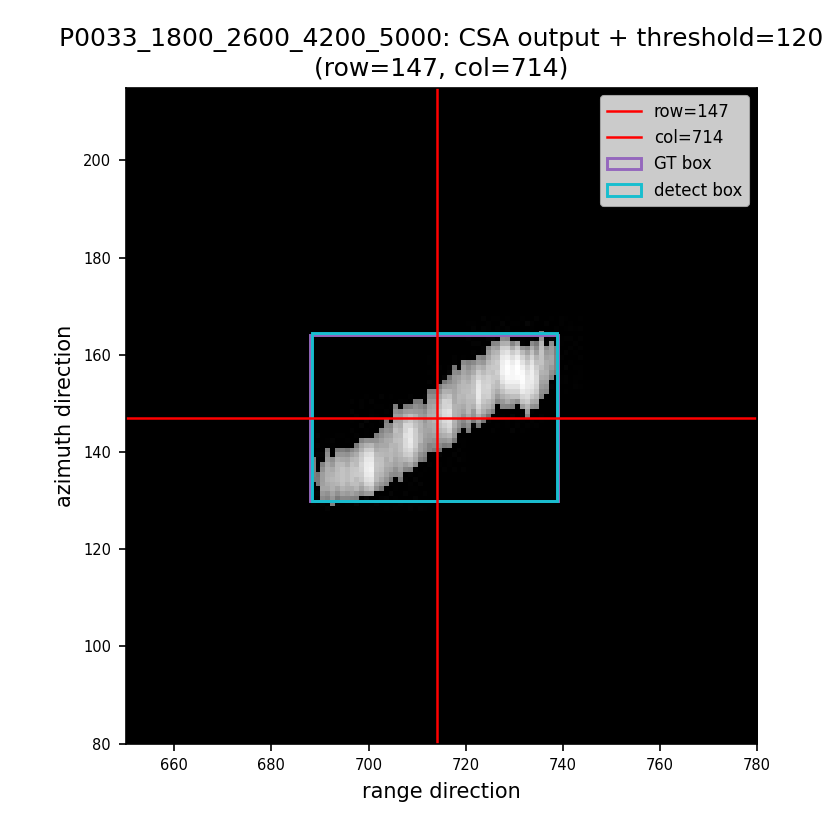
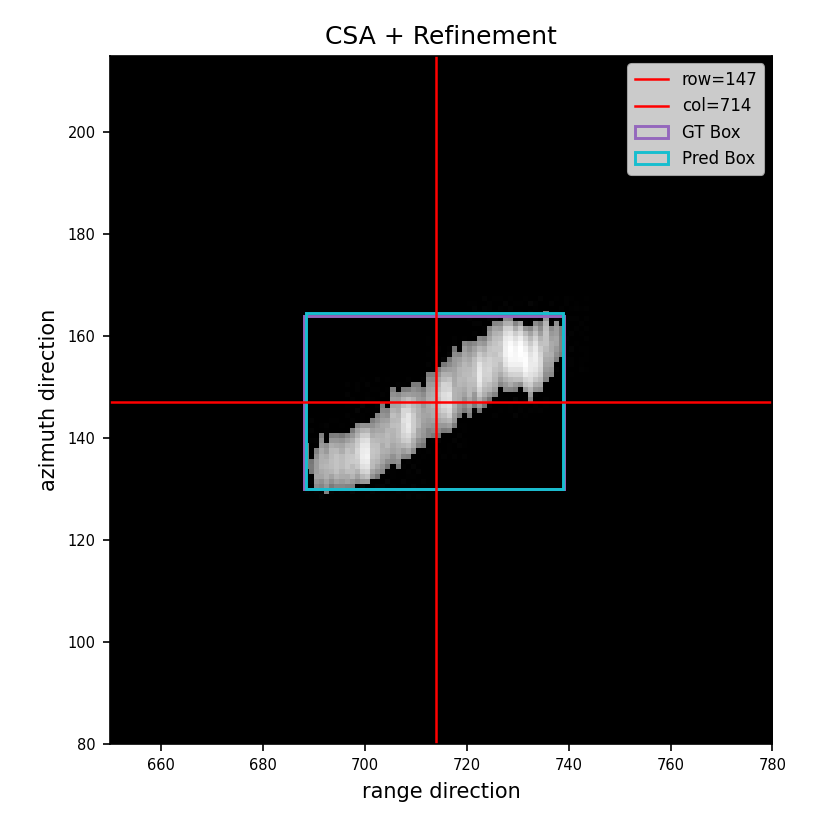
Fix label and legend

diff --git a/end_to_end_pipeline/crosssection_plots/plot_crosssection_scene.py b/end_to_end_pipeline/crosssection_plots/plot_crosssection_scene.py
@@ -93,15 +93,31 @@ def edges_crossing(boxes, fixed_row=None, fixed_col=None):
     return edges
 
 
+def normalize_to_peak(arr, target):
+    """Scale a 1D profile so its own max within the plotted window equals
+    `target` -- ONLY for visually comparing relative shape across curves
+    whose absolute 0-255 scales are not calibrated to each other
+    (union_masked is a raw pixel value, CSA output is independently
+    re-normalized per-image to its own dB peak -- see conversation notes).
+    Not meaningful as an absolute physical quantity, observation purposes
+    only. union_masked itself is intentionally left un-normalized (its raw
+    pixel value already IS a meaningful physical quantity) -- CSA output
+    and CSA+threshold get peak-scaled to `target`, which the caller sets to
+    union_masked's own peak within the same window, so all three curves
+    reach the same visual peak height for shape comparison."""
+    peak = np.max(arr)
+    return arr * (target / peak) if peak > 0 else arr
+
+
 def draw_box_edges(ax, gt_edges, pred_edges, lo, hi):
     for i, edge in enumerate(gt_edges):
         if lo <= edge <= hi:
             ax.axvline(edge, color="tab:purple", linestyle="-", linewidth=1.3,
-                       label="GT box edge" if i == 0 else None)
+                       label="GT Box" if i == 0 else None)
     for i, edge in enumerate(pred_edges):
         if lo <= edge <= hi:
             ax.axvline(edge, color="tab:cyan", linestyle="-", linewidth=1.3,
-                       label="detect box edge" if i == 0 else None)
+                       label="Pred Box" if i == 0 else None)
 
 
 def main():
@@ -113,12 +129,24 @@ def main():
     ap.add_argument("--col-window", type=int, nargs=2, required=True, metavar=("C0", "C1"))
     ap.add_argument("--threshold", type=int, default=120)
     ap.add_argument("--out", default=None)
+    ap.add_argument("--csa-path", default=None,
+                     help="override path to the CSA output image (e.g. from a standalone "
+                          "experiment directory with different radar parameters, such as "
+                          "half_bandwidth_experiment/csa_jpg/<stem>.jpg)")
+    ap.add_argument("--union-masked-path", default=None,
+                     help="override path to the union_masked (input) image")
     ap.add_argument("--thresholded-path", default=None,
                      help="override path to the CSA+threshold image (e.g. a lossless .png saved "
                           "alongside the pipeline's .jpg, to avoid JPEG re-compression artifacts "
                           "in the cross-section)")
     ap.add_argument("--no-boxes", action="store_true",
                      help="don't overlay GT / predicted box extents")
+    ap.add_argument("--normalize", action="store_true",
+                     help="scale CSA and CSA+threshold each to union_masked's own peak within the "
+                          "plotted window (union_masked is left as raw pixel values, unchanged), "
+                          "for OBSERVATION only -- union_masked/CSA/CSA+threshold are not on a "
+                          "shared absolute intensity scale (see conversation notes), so this is "
+                          "for comparing relative shape, not real physical values")
     args = ap.parse_args()
 
     gt_edges_h, pred_edges_h = [], []  # column positions (for the horizontal cut)
@@ -130,8 +158,8 @@ def main():
         gt_edges_v = edges_crossing(gt_boxes, fixed_col=args.col)
         pred_edges_v = edges_crossing(pred_boxes, fixed_col=args.col)
 
-    union_masked_path = os.path.join(BASE, "union_masked", "images", args.stem + ".jpg")
-    csa_path = os.path.join(BASE, "union_pipeline", "csa_jpg", args.stem + ".jpg")
+    union_masked_path = args.union_masked_path or os.path.join(BASE, "union_masked", "images", args.stem + ".jpg")
+    csa_path = args.csa_path or os.path.join(BASE, "union_pipeline", "csa_jpg", args.stem + ".jpg")
     thresholded_path = args.thresholded_path or os.path.join(
         BASE, "union_pipeline", f"csa_jpg_t{args.threshold}", args.stem + ".jpg"
     )
@@ -146,13 +174,18 @@ def main():
     fig, ax = plt.subplots(figsize=(7, 5))
     c0, c1 = args.col_window
     x = np.arange(c0, c1)
-    ax.plot(x, point_target[args.row, c0:c1], color="tab:blue", linestyle="-", label="union_masked (input)")
-    ax.plot(x, csa[args.row, c0:c1], color="tab:orange", linestyle="-", label="CSA output")
-    ax.plot(x, csa_t[args.row, c0:c1], color="tab:green", linestyle="--", label=f"CSA output + threshold={args.threshold}")
+    pt_h, csa_h, csa_t_h = point_target[args.row, c0:c1], csa[args.row, c0:c1], csa_t[args.row, c0:c1]
+    if args.normalize:
+        target_h = np.max(pt_h)
+        csa_h, csa_t_h = normalize_to_peak(csa_h, target_h), normalize_to_peak(csa_t_h, target_h)
+    ax.plot(x, pt_h, color="tab:blue", linestyle="-", label="Input SAR Image")
+    ax.plot(x, csa_h, color="tab:orange", linestyle="-", label="CSA")
+    ax.plot(x, csa_t_h, color="tab:green", linestyle="--", label="CSA + Refinement")
     draw_box_edges(ax, gt_edges_h, pred_edges_h, c0, c1)
-    ax.set_title(f"{args.stem}: horizontal cross-section (row={args.row})")
-    ax.set_xlabel("column (range direction)")
+    ax.set_title("range cross-section")
+    ax.set_xlabel("range direction")
     ax.set_ylabel("intensity (0-255)")
+    ax.set_ylim(0, 255)
     ax.legend()
     ax.grid(alpha=0.3)
     plt.tight_layout()
@@ -164,13 +197,18 @@ def main():
     fig, ax = plt.subplots(figsize=(7, 5))
     r0, r1 = args.row_window
     y = np.arange(r0, r1)
-    ax.plot(y, point_target[r0:r1, args.col], color="tab:blue", linestyle="-", label="union_masked (input)")
-    ax.plot(y, csa[r0:r1, args.col], color="tab:orange", linestyle="-", label="CSA output")
-    ax.plot(y, csa_t[r0:r1, args.col], color="tab:green", linestyle="--", label=f"CSA output + threshold={args.threshold}")
+    pt_v, csa_v, csa_t_v = point_target[r0:r1, args.col], csa[r0:r1, args.col], csa_t[r0:r1, args.col]
+    if args.normalize:
+        target_v = np.max(pt_v)
+        csa_v, csa_t_v = normalize_to_peak(csa_v, target_v), normalize_to_peak(csa_t_v, target_v)
+    ax.plot(y, pt_v, color="tab:blue", linestyle="-", label="Input SAR Image")
+    ax.plot(y, csa_v, color="tab:orange", linestyle="-", label="CSA")
+    ax.plot(y, csa_t_v, color="tab:green", linestyle="--", label="CSA + Refinement")
     draw_box_edges(ax, gt_edges_v, pred_edges_v, r0, r1)
-    ax.set_title(f"{args.stem}: vertical cross-section (col={args.col})")
-    ax.set_xlabel("row (azimuth direction)")
+    ax.set_title("azimuth cross-section")
+    ax.set_xlabel("azimuth direction")
     ax.set_ylabel("intensity (0-255)")
+    ax.set_ylim(0, 255)
     ax.legend()
     ax.grid(alpha=0.3)
     plt.tight_layout()

diff --git a/end_to_end_pipeline/crosssection_plots/plot_crosssection_overlay_on_images.py b/end_to_end_pipeline/crosssection_plots/plot_crosssection_overlay_on_images.py
@@ -72,9 +72,9 @@ def main():
     c0, c1 = args.col_window
 
     panels = [
-        ("union_masked", "union_masked (input)", cv2.imread(union_masked_path, cv2.IMREAD_GRAYSCALE)),
-        ("csa", "CSA output", cv2.imread(csa_path, cv2.IMREAD_GRAYSCALE)),
-        (f"csa_t{args.threshold}", f"CSA output + threshold={args.threshold}",
+        ("union_masked", "Input SAR Image", cv2.imread(union_masked_path, cv2.IMREAD_GRAYSCALE)),
+        ("csa", "CSA", cv2.imread(csa_path, cv2.IMREAD_GRAYSCALE)),
+        (f"csa_t{args.threshold}", "CSA + Refinement",
          cv2.imread(thresholded_path, cv2.IMREAD_GRAYSCALE)),
     ]
 
@@ -84,10 +84,10 @@ def main():
         ax.imshow(crop, cmap="gray", vmin=0, vmax=255, extent=[c0, c1, r0, r1], origin="lower")
         ax.axhline(args.row, color="red", linestyle="-", linewidth=1.2, label=f"row={args.row}")
         ax.axvline(args.col, color="red", linestyle="-", linewidth=1.2, label=f"col={args.col}")
-        draw_boxes(ax, gt_boxes, "tab:purple", "GT box")
-        draw_boxes(ax, pred_boxes, "tab:cyan", "detect box")
+        draw_boxes(ax, gt_boxes, "tab:purple", "GT Box")
+        draw_boxes(ax, pred_boxes, "tab:cyan", "Pred Box")
         ax.legend(fontsize=8, loc="upper right")
-        ax.set_title(f"{args.stem}: {title}\n(row={args.row}, col={args.col})")
+        ax.set_title(title)
         ax.set_xlabel("range direction")
         ax.set_ylabel("azimuth direction")
         ax.tick_params(labelsize=7)
